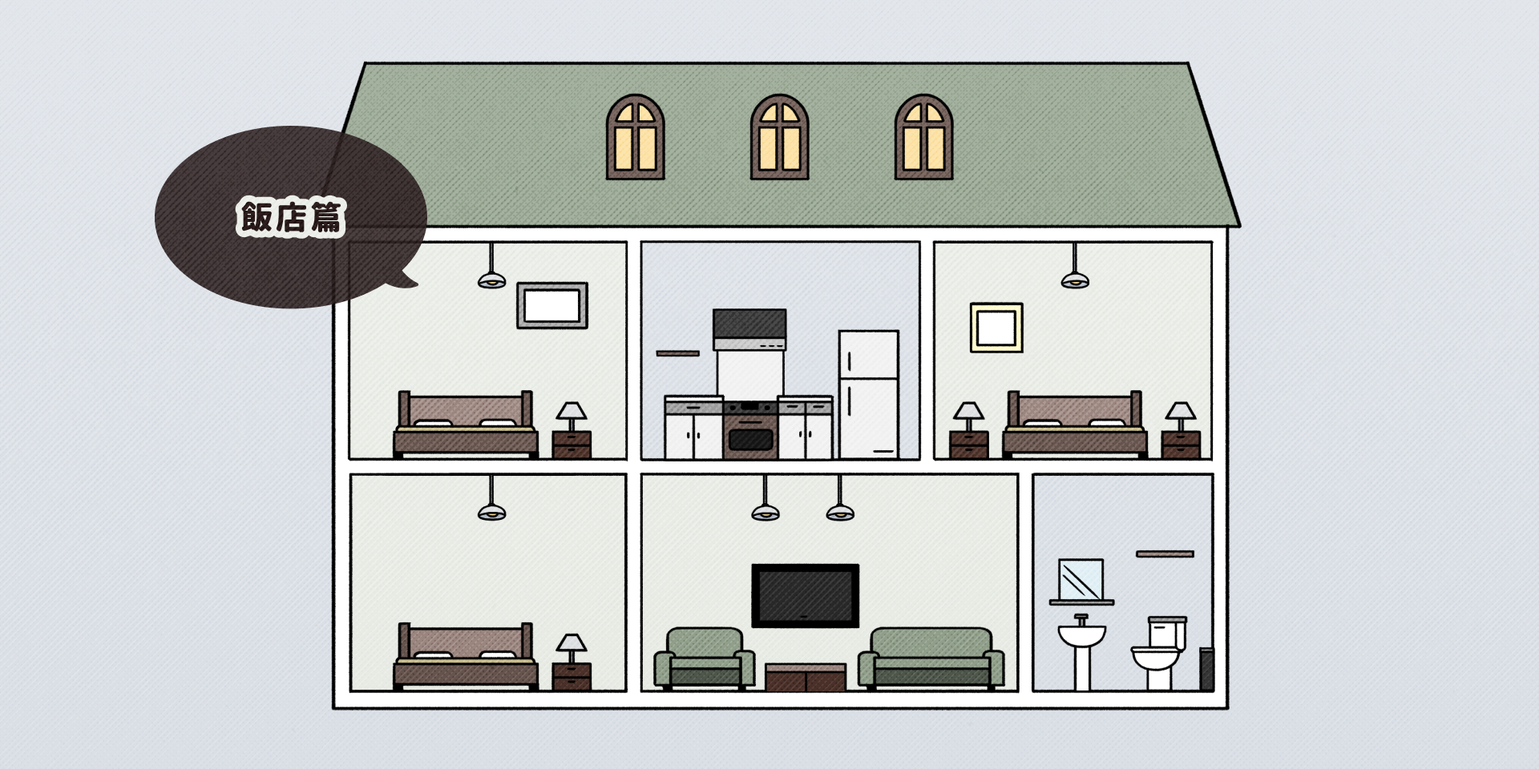
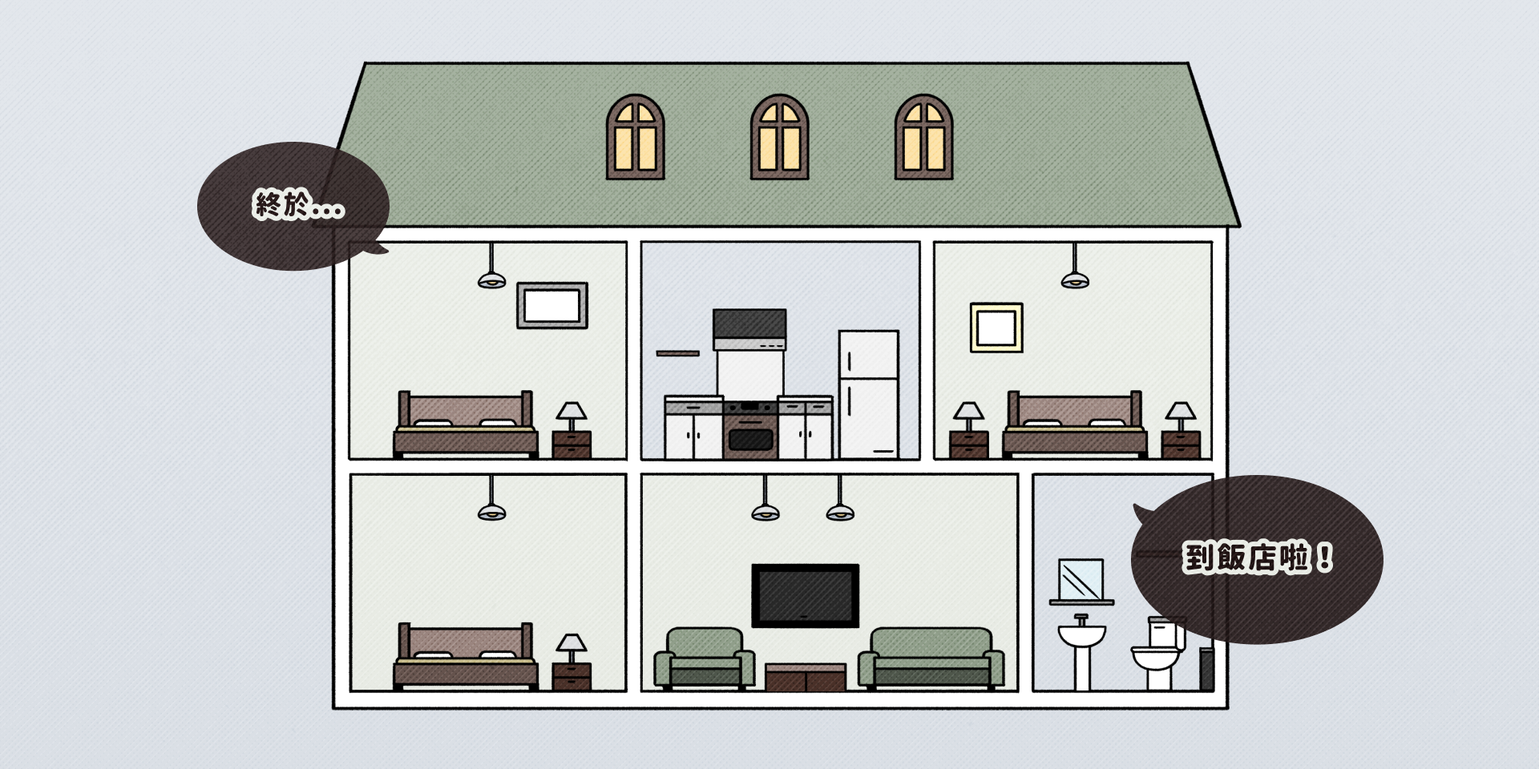
更新

Changed region(s): [[0.7188, 0.5938, 0.9062, 0.8438], [0.0938, 0.1562, 0.2812, 0.4062]]

diff --git a/travel_class.html b/travel_class.html
@@ -3,7 +3,7 @@
 <head>
     <meta charset="UTF-8">
     <meta name="viewport" content="width=device-width, initial-scale=1.0">
-    <title>四天三夜・旅行班：旅行日語補給包</title>
+    <title>四天三夜・旅行班</title>
     <link rel="shortcut icon" href="./img/favicon.ico" type="image/x-icon">
     <link rel="stylesheet" href="./css/all.css">
     <link rel="stylesheet" href="https://fonts.googleapis.com/css2?family=Material+Symbols+Outlined:opsz,wght,FILL,GRAD@48,700,0,0" />
@@ -65,7 +65,7 @@
             </div>
             <div class="carousel-inner">
               <div class="carousel-item active" data-bs-interval="10000">
-                <img src="img/banner_travel_class_001.png" class="img-fluid bg-moore" alt="飯店">
+                <img src="img/banner_travel_001.png" class="img-fluid bg-moore" alt="飯店">
                 <div class="carousel-caption text-start d-none d-lg-block p-4 bg-light rounded border border-3 shadow-sm mb-4">
                   <h2 class="fs-3 typing">每次旅行都是一次全新冒險。</h2>
                   <p class="mb-0 text-muted">這裡是為旅行而設的日語學習資源。<br>本站有四大學習主題：飯店、居酒屋、交通、購物結帳，快速充電你的日語能力。</p>
@@ -168,135 +168,19 @@
             <div class="col-md-8">
               <ul class="nav nav-pills p-3 bg-light rounded-top flex-nowrap overflow-auto" id="travelClassInfoSectionTabs" role="tablist">
                 <li class="nav-item text-nowrap" role="presentation">
-                  <button class="nav-link active" id="travelClassInfoSectionTabs_GroupOne" data-bs-toggle="pill" data-bs-target="#travelClassInfoSectionTabs_001" type="button" role="tab" aria-controls="travelClassInfoSectionTabs_001" aria-selected="true">旅行日語補給包</button>
+                  <button class="nav-link active" id="travelClassInfoSectionTabs_GroupOne" data-bs-toggle="pill" data-bs-target="#travelClassInfoSectionTabs_001" type="button" role="tab" aria-controls="travelClassInfoSectionTabs_001" aria-selected="true">旅行班課程資訊</button>
                 </li>
                 <li class="nav-item text-nowrap" role="presentation">
-                  <button class="nav-link" id="travelClassInfoSectionTabs_GroupTwo" data-bs-toggle="pill" data-bs-target="#travelClassInfoSectionTabs_002" type="button" role="tab" aria-controls="travelClassInfoSectionTabs_002" aria-selected="false">旅行班資訊</button>
+                  <button class="nav-link" id="travelClassInfoSectionTabs_GroupTwo" data-bs-toggle="pill" data-bs-target="#travelClassInfoSectionTabs_002" type="button" role="tab" aria-controls="travelClassInfoSectionTabs_002" aria-selected="false">學生評價</button>
                 </li>
                 <li class="nav-item text-nowrap" role="presentation">
-                  <button class="nav-link" id="travelClassInfoSectionTabs_GroupThree" data-bs-toggle="pill" data-bs-target="#travelClassInfoSectionTabs_003" type="button" role="tab" aria-controls="travelClassInfoSectionTabs_003" aria-selected="false">學生評價</button>
-                </li>
-                <li class="nav-item text-nowrap" role="presentation">
-                  <button class="nav-link" id="travelClassInfoSectionTabs_GroupFour" data-bs-toggle="pill" data-bs-target="#travelClassInfoSectionTabs_004" type="button" role="tab" aria-controls="travelClassInfoSectionTabs_004" aria-selected="false">其他團課</button>
+                  <button class="nav-link" id="travelClassInfoSectionTabs_GroupThree" data-bs-toggle="pill" data-bs-target="#travelClassInfoSectionTabs_003" type="button" role="tab" aria-controls="travelClassInfoSectionTabs_003" aria-selected="false">其他團課</button>
                 </li>
               </ul>
               <!-- tabs 導覽按鈕-->
               <div class="tab-content bg-light pb-3 rounded-bottom" id="travelClassInfoSectionTabs_tabContent">
-                  <!--tab-pane-001 關於補給包-->
-                  <div class="tab-pane fade show active container px-3" id="travelClassInfoSectionTabs_001" role="tabpanel" aria-labelledby="travelClassInfoSectionTabs_GroupOne">
-                    <div class="bg-white rounded p-3">
-                      <h4 class="fs-5">本站使用方式</h4>
-                      <img src="img/ig_post_rule.png" alt="" class="img-fluid d-block rounded bg-goose">
-                      <div class="container my-3 px-0">
-                        <!--刻意消除課程內容、團課資訊 container 的 px-0 -->
-                        <div class="row g-2">
-                          <div class="col-lg-6">
-                            <div class="d-flex mb-0 rounded border border-1 p-2 bg-white h-100">
-                              <div class="me-2">
-                                <span class="material-symbols-outlined d-block bg-secondary p-2 rounded-circle icon-primary">
-                                  counter_1
-                                </span>
-                              </div>
-                              <div class="d-flex flex-column mb-0">
-                                <p class="mb-0 fw-bolder">下載作答紙</p>
-                                <p class="fs-7 text-primary mb-0">檔案為 .doc，可用 Office Word 開啟</p>
-                                <p class="mb-0 text-muted"><a href="#" class="link-offset-2 text-strong">點此來下載</a>，依據練習主題與題目編號填寫答案，同學也可直接列印下來填寫。
-                                </p>
-                              </div>
-                            </div>
-                          </div>
-                          <div class="col-lg-6">
-                            <div class="d-flex mb-0 rounded border border-1 p-2 bg-white h-100">
-                              <div class="me-2">
-                                <span class="material-symbols-outlined d-block bg-secondary icon-primary p-2 rounded-circle">
-                                  counter_2
-                                </span>
-                              </div>
-                              <div class="d-flex flex-column mb-0">
-                                <p class="mb-0 fw-bolder">查看網站上的任務及題目</p>
-                                <p class="fs-7 text-primary mb-0">共四種主題：住宿、飲食、交通、購物</p>
-                                <p class="mb-0 text-muted">題目有句子挖空、短文聽力、文法句型等，練習將答案寫進作答紙中。
-                                </p>
-                              </div>
-                            </div>
-                          </div>
-                          <div class="col-lg-6">
-                            <div class="d-flex mb-0 rounded border border-1 p-2 bg-white h-100">
-                              <div class="me-2">
-                                <span class="material-symbols-outlined d-block bg-secondary icon-primary p-2 rounded-circle">
-                                  counter_3
-                                </span>
-                              </div>
-                              <div class="d-flex flex-column mb-0">
-                                <p class="mb-0 fw-bolder">在 Instagram 貼文領取答案</p>
-                                <p class="fs-7 text-primary mb-0">活動辦法</p>
-                                <p class="mb-0 text-muted">追蹤「yuyu.learn」，喜歡本篇貼文、留言「我要旅行補給包」，即可領取解答。
-                                </p>
-                              </div>
-                            </div>
-                          </div>
-                          <div class="col-lg-6">
-                            <div class="d-flex mb-0 rounded border border-1 p-2 bg-white h-100">
-                              <div class="me-2">
-                                <span class="material-symbols-outlined d-block bg-secondary icon-primary p-2 rounded-circle">
-                                  counter_4
-                                </span>
-                              </div>
-                              <div class="d-flex flex-column mb-0">
-                                <p class="mb-0 fw-bolder">訂正與複習</p>
-                                <p class="fs-7 text-primary mb-0">領取解答後，即可對答案</p>
-                                <p class="mb-0 text-muted">同學可批改自己錯誤、不懂的地方，反覆練習加深學習印象。
-                                </p>
-                              </div>
-                            </div>
-                          </div>
-                        </div><!--row-->
-                      </div><!--container-->
-                      <h4 class="fs-5 mb-3">如何獲得解答</h4>
-                      <p class="my-3 text-muted">自學的過程中，容易因遇到瓶頸而漸漸失去學習的熱情。而在小班課的學習旅程中，你不再孤軍奮戰，可以與同學一起組隊打怪，有句話說：「一個人走得快，一群人走得遠。」<br>在課堂上練習勇敢大聲說，通過與夥伴的教學相長，與更多人一起建立學習語言的自信，你將變得更強！不用擔心落後或者說不出句子，同學只需與自己比較，定期與老師對焦學習目標，不再擔心學習卡關。</p>
-                      <h4 class="fs-5">來加入適合你的隊伍，看看有哪些團課吧！
-                      </h4>
-                      <p class="my-3 text-muted">除了旅行團班以外，老師也有開設其他不同學習主題的團班，同學可以根據自己想要學習的方向，來向老師諮詢報名喔！</p>
-                      <div class="container mt-3 px-0">
-                        <div class="row g-3">
-                          <div class="col-lg-6">
-                            <div class="card p-3 h-100 border border-1">
-                                <div class="position-relative mb-2">
-                                  <p class="position-absolute top-0 px-md-3 py-md-2 bg-dark fs-6 fw-bold text-white px-3 py-1 rounded-topLeft-bottomRight">社交會話</p>
-                                  <img src="img/class-info-cover_001.png" class="classTopicImg img-fluid rounded bg-goose" alt="class-topic-img">
-                                </div>
-                                  <div class="card-body d-flex flex-column p-0">
-                                      <h5 class="card-title">社交 Up！初級口說派對</h5>
-                                    <p class="rounded fs-7 bg-moore text-primary mb-0 py-1 px-3  fw-bolder mb-2">適合瞭解助詞、初階動詞變化者</p>
-                                    <p class="rounded fs-7 bg-moore text-primary mb-0 py-1 px-3  fw-bolder mb-2">2 人開班・4 人即滿班</p>
-                                    <p class="mb-2 text-muted">專為希望提升日常會話能力的學習者設計。在這堂課上，你將透過互動式活動與同學們練習實用的日語表達方式，打破開口的恐懼，建立自信。</p>
-                                    <a href="https://tw.amazingtalker.com/teachers-and-tutors/7255146a-f7a9-4d09-b329-0f5baf664b18" class="btn btn-primary fw-bolder d-block" role="button" target="_blank">報名上課</a>
-                                  </div>
-                            </div>
-                          </div>
-                          <div class="col-lg-6">
-                            <div class="card p-3 h-100 border border-1">
-                                <div class="position-relative mb-2">
-                                  <p class="position-absolute top-0 px-md-3 py-md-2 bg-dark fs-6 fw-bold text-white px-3 py-1 rounded-topLeft-bottomRight">進階旅遊日語</p>
-                                  <img src="img/class-info-cover_001.png" class="classTopicImg img-fluid rounded bg-goose" alt="class-topic-img">
-                                </div>
-                                <div class="card-body d-flex flex-column p-0">
-                                      <h5 class="card-title">導遊專班</h5>
-                                    <p class="rounded fs-7 bg-moore text-primary mb-0 py-1 px-3  fw-bolder mb-2">適合瞭解助詞、初階動詞變化者</p>
-                                    <p class="rounded fs-7 bg-moore text-primary mb-0 py-1 px-3  fw-bolder mb-2">2 人開班・4 人即滿班</p>
-                                    <p class="mb-2 text-muted">專為希望提升日常會話能力的學習者設計。在這堂課上，你將透過互動式活動與同學們練習實用的日語表達方式，打破開口的恐懼，建立自信。</p>
-                                    <a href="https://tw.amazingtalker.com/teachers-and-tutors/7255146a-f7a9-4d09-b329-0f5baf664b18" class="btn btn-primary fw-bolder d-block" role="button" target="_blank">報名上課</a>
-                                </div>
-                            </div>
-                          </div>
-                        </div><!--row-->  
-                      </div><!--課程內容-->
-                    </div><!--內容-->
-                  </div>
-                  <!--tab-pane-001 關於補給包-->
-
-                  <!--tab-pane-002 課程資訊-->
-                  <div class="tab-pane fade container px-3" id="travelClassInfoSectionTabs_002" role="tabpanel" aria-labelledby="travelClassInfoSectionTabs_GroupTwo">
+                  <!--tab-pane-001 課程資訊-->
+                  <div class="tab-pane fade fade show active container px-3" id="travelClassInfoSectionTabs_001" role="tabpanel" aria-labelledby="travelClassInfoSectionTabs_GroupOne">
                     <div class="bg-white rounded p-3">
                       <h4 class="fs-5">四天三夜・旅行班</h4>
                       <p class="my-3 text-muted">在這門課程中，每位同學將在課前收到角色任務卡，上面包含了同學在課程中需要完成的任務，任務涵蓋了課程的核心知識與技能，讓你沈浸式學習，不再是課本句子練習，和夥伴們在這八堂旅途上，一同學習旅遊日語吧！</p>
@@ -390,7 +274,7 @@
                           </div>
                         </div><!--row-->
                       </div><!--container-->
-                      <h4 class="fs-5">課程內容</h4>
+                      <h4 class="fs-5">課程四大學習主題</h4>
                       <div class="container mt-3 px-0">
                         <div class="row g-3">
                           <div class="col-lg-6">
@@ -465,10 +349,10 @@
                       </div><!--課程內容-->
                     </div><!--內容-->
                   </div>
-                  <!--tab-pane-002 課程資訊-->
+                  <!--tab-pane-001 課程資訊-->
 
-                  <!--tab-pane-003 學生評價-->
-                  <div class="tab-pane fade container px-3" id="travelClassInfoSectionTabs_003" role="tabpanel" aria-labelledby="travelClassInfoSectionTabs_GroupThree">
+                  <!--tab-pane-002 學生評價-->
+                  <div class="tab-pane fade container px-3" id="travelClassInfoSectionTabs_002" role="tabpanel" aria-labelledby="travelClassInfoSectionTabs_GroupTwo">
                     <div class="bg-white rounded p-3">
                       <h4 class="fs-5">同學的上課回饋</h4>
                       <div class="container my-3 px-0">
@@ -630,10 +514,10 @@
                       </div><!--課程內容-->
                     </div><!--內容-->
                   </div>
-                  <!--tab-pane-003 學生評價-->
+                  <!--tab-pane-002 學生評價-->
 
-                  <!--tab-pane-004 其他團課-->
-                  <div class="tab-pane fade container px-3" id="travelClassInfoSectionTabs_004" role="tabpanel" aria-labelledby="travelClassInfoSectionTabs_GroupFour">
+                  <!--tab-pane-003 其他團課-->
+                  <div class="tab-pane fade container px-3" id="travelClassInfoSectionTabs_003" role="tabpanel" aria-labelledby="travelClassInfoSectionTabs_GroupThree">
                     <div class="bg-white rounded p-3">
                       <h4 class="fs-5">來加入適合你的隊伍，看看有哪些團課吧！
                       </h4>
@@ -674,7 +558,7 @@
                       </div><!--課程內容-->
                     </div><!--內容-->
                   </div>
-                  <!--tab-pane-004 其他團課-->
+                  <!--tab-pane-003 其他團課-->
 
               </div>
               <!-- tabs content-->

diff --git a/koutsuu.html b/koutsuu.html
@@ -21,9 +21,9 @@
                 </button>
                 <div class="collapse navbar-collapse" id="navbarNav">
                     <ul class="navbar-nav ms-auto justify-content-center align-items-lg-center fw-bolder gap-2">
-                        <li class="nav-item">
-                            <a class="nav-link" aria-current="page" href="./index.html">關於本站</a>
-                        </li>
+                    <li class="nav-item">
+                        <a class="nav-link" aria-current="page" href="./index.html">關於本站</a>
+                    </li>
                     <li class="nav-item">
                         <a class="nav-link" aria-current="page" href="./hoteru.html">飯店住宿</a>
                     </li>
@@ -36,10 +36,14 @@
                     <li class="nav-item">
                         <a class="nav-link" href="./kaimono.html">購物結帳</a>
                     </li>
+                    <li><a href="./index.html" class="btn btn-outline-primary fs-7">下載作答紙</a>
+                    </li>
+                    <li><a href="./travel_class.html" class="btn btn-primary fs-7">關於旅行班</a>
+                    </li>
                     <ul class="list-unstyled d-flex align-items-lg-center">
-                        <li class="nav-item">
-                        <a href="https://www.instagram.com/yuyu.learn/" class="d-block p-1" target="_blank"><img src="img/icon-filled-bk-paper.svg" alt="instagram" class="img-fluid d-block"></a>
-                        </li>
+                        <!-- <li class="nav-item">
+                        <a href="#" class="d-block p-1" target="_blank"><img src="img/icon-filled-bk-paper.svg" alt="instagram" class="img-fluid d-block"></a>
+                        </li> -->
                         <li class="nav-item">
                         <a href="https://www.instagram.com/yuyu.learn/" class="d-block p-1" target="_blank"><img src="img/icon-bk-instagram.svg" alt="instagram" class="img-fluid d-block"></a>
                         </li>
@@ -62,14 +66,14 @@
               <div class="carousel-item active" data-bs-interval="10000">
                 <img src="img/banner_koutsuu_001.png" class="img-fluid" alt="飯店">
                 <div class="carousel-caption text-start d-none d-lg-block p-4 mb-4">
-                  <h2 class="fs-3 typing text-dark bg-white rounded px-3 py-2">出門在外難免迷點路 🐾 🥸</h2>
+                  <h2 class="fs-3 typing text-dark bg-white rounded px-3 py-2">迷路時最怕空氣突然很安靜</h2>
                 </div>
               </div>
               <div class="carousel-item" data-bs-interval="2000">
                 <img src="img/banner_koutsuu_002.png" class="img-fluid" alt="banner">
-                <div class="carousel-caption text-start d-none d-lg-block p-4 mb-4">
-                  <h2 class="fs-3 typing text-light bg-dark rounded px-3 py-2">tag 你那位總是迷路的朋友</h2>
-                </div>
+                <!-- <div class="carousel-caption text-start d-none d-lg-block p-4 mb-4">
+                  <h2 class="fs-3 typing text-light bg-dark rounded px-3 py-2">text</h2>
+                </div> -->
               </div>
               <!-- <div class="carousel-item">
                 <img src="img/banner_003.png" class="img-fluid" alt="...">

diff --git a/kaimono.html b/kaimono.html
@@ -21,9 +21,9 @@
                 </button>
                 <div class="collapse navbar-collapse" id="navbarNav">
                     <ul class="navbar-nav ms-auto justify-content-center align-items-lg-center fw-bolder gap-2">
-                        <li class="nav-item">
-                            <a class="nav-link" aria-current="page" href="./index.html">關於本站</a>
-                        </li>
+                    <li class="nav-item">
+                        <a class="nav-link" aria-current="page" href="./index.html">關於本站</a>
+                    </li>
                     <li class="nav-item">
                         <a class="nav-link" aria-current="page" href="./hoteru.html">飯店住宿</a>
                     </li>
@@ -36,10 +36,14 @@
                     <li class="nav-item">
                         <a class="nav-link" href="./kaimono.html">購物結帳</a>
                     </li>
+                    <li><a href="./index.html" class="btn btn-outline-primary fs-7">下載作答紙</a>
+                    </li>
+                    <li><a href="./travel_class.html" class="btn btn-primary fs-7">關於旅行班</a>
+                    </li>
                     <ul class="list-unstyled d-flex align-items-lg-center">
-                        <li class="nav-item">
-                        <a href="https://www.instagram.com/yuyu.learn/" class="d-block p-1" target="_blank"><img src="img/icon-filled-bk-paper.svg" alt="instagram" class="img-fluid d-block"></a>
-                        </li>
+                        <!-- <li class="nav-item">
+                        <a href="#" class="d-block p-1" target="_blank"><img src="img/icon-filled-bk-paper.svg" alt="instagram" class="img-fluid d-block"></a>
+                        </li> -->
                         <li class="nav-item">
                         <a href="https://www.instagram.com/yuyu.learn/" class="d-block p-1" target="_blank"><img src="img/icon-bk-instagram.svg" alt="instagram" class="img-fluid d-block"></a>
                         </li>
@@ -62,13 +66,13 @@
               <div class="carousel-item active" data-bs-interval="10000">
                 <img src="img/banner_kaimono_001.png" class="img-fluid" alt="飯店">
                 <div class="carousel-caption text-start d-none d-lg-block p-4 mb-4">
-                  <h2 class="fs-3 typing bg-dark text-white rounded px-3 py-2">我在買爆東西的路上 💸 💸</h2>
+                  <h2 class="fs-3 typing bg-dark text-white rounded px-3 py-2">信用卡：「你休想再刷！」</h2>
                 </div>
               </div>
               <div class="carousel-item" data-bs-interval="2000">
                 <img src="img/banner_kaimono_002.png" class="img-fluid" alt="banner">
                 <div class="carousel-caption text-start d-none d-lg-block p-4 mb-4">
-                  <h2 class="fs-3 typing text-light bg-dark rounded px-3 py-2">只好拿出我的信用卡了 🧐</h2>
+                  <h2 class="fs-3 typing text-light bg-dark rounded px-3 py-2">我在買爆東西的路上 💸 💸</h2>
                 </div>
               </div>
               <!-- <div class="carousel-item">

diff --git a/hoteru.html b/hoteru.html
@@ -21,9 +21,9 @@
                 </button>
                 <div class="collapse navbar-collapse" id="navbarNav">
                     <ul class="navbar-nav ms-auto justify-content-center align-items-lg-center fw-bolder gap-2">
-                        <li class="nav-item">
-                            <a class="nav-link" aria-current="page" href="./index.html">關於本站</a>
-                        </li>
+                    <li class="nav-item">
+                        <a class="nav-link" aria-current="page" href="./index.html">關於本站</a>
+                    </li>
                     <li class="nav-item">
                         <a class="nav-link" aria-current="page" href="./hoteru.html">飯店住宿</a>
                     </li>
@@ -36,10 +36,14 @@
                     <li class="nav-item">
                         <a class="nav-link" href="./kaimono.html">購物結帳</a>
                     </li>
+                    <li><a href="./index.html" class="btn btn-outline-primary fs-7">下載作答紙</a>
+                    </li>
+                    <li><a href="./travel_class.html" class="btn btn-primary fs-7">關於旅行班</a>
+                    </li>
                     <ul class="list-unstyled d-flex align-items-lg-center">
-                        <li class="nav-item">
-                        <a href="https://www.instagram.com/yuyu.learn/" class="d-block p-1" target="_blank"><img src="img/icon-filled-bk-paper.svg" alt="instagram" class="img-fluid d-block"></a>
-                        </li>
+                        <!-- <li class="nav-item">
+                        <a href="#" class="d-block p-1" target="_blank"><img src="img/icon-filled-bk-paper.svg" alt="instagram" class="img-fluid d-block"></a>
+                        </li> -->
                         <li class="nav-item">
                         <a href="https://www.instagram.com/yuyu.learn/" class="d-block p-1" target="_blank"><img src="img/icon-bk-instagram.svg" alt="instagram" class="img-fluid d-block"></a>
                         </li>
@@ -73,9 +77,9 @@
               </div>
               <div class="carousel-item" data-bs-interval="2000">
                 <img src="img/banner_hotel_002.png" class="img-fluid" alt="banner">
-                <div class="carousel-caption text-start d-none d-lg-block p-4 mb-4">
-                  <h2 class="fs-3 typing text-light bg-dark rounded px-3 py-2">飯店裡似乎有些機關 🧐 ⋯</h2>
-                </div>
+                <!-- <div class="carousel-caption text-start d-none d-lg-block p-4 mb-4">
+                  <h2 class="fs-3 typing text-light bg-dark rounded px-3 py-2">終於抵達飯店啦～</h2>
+                </div> -->
               </div>
               <!-- <div class="carousel-item">
                 <img src="" class="img-fluid" alt="...">

diff --git a/izakaya.html b/izakaya.html
@@ -21,9 +21,9 @@
                 </button>
                 <div class="collapse navbar-collapse" id="navbarNav">
                     <ul class="navbar-nav ms-auto justify-content-center align-items-lg-center fw-bolder gap-2">
-                        <li class="nav-item">
-                            <a class="nav-link" aria-current="page" href="./index.html">關於本站</a>
-                        </li>
+                    <li class="nav-item">
+                        <a class="nav-link" aria-current="page" href="./index.html">關於本站</a>
+                    </li>
                     <li class="nav-item">
                         <a class="nav-link" aria-current="page" href="./hoteru.html">飯店住宿</a>
                     </li>
@@ -36,10 +36,14 @@
                     <li class="nav-item">
                         <a class="nav-link" href="./kaimono.html">購物結帳</a>
                     </li>
+                    <li><a href="./index.html" class="btn btn-outline-primary fs-7">下載作答紙</a>
+                    </li>
+                    <li><a href="./travel_class.html" class="btn btn-primary fs-7">關於旅行班</a>
+                    </li>
                     <ul class="list-unstyled d-flex align-items-lg-center">
-                        <li class="nav-item">
-                        <a href="https://www.instagram.com/yuyu.learn/" class="d-block p-1" target="_blank"><img src="img/icon-filled-bk-paper.svg" alt="instagram" class="img-fluid d-block"></a>
-                        </li>
+                        <!-- <li class="nav-item">
+                        <a href="#" class="d-block p-1" target="_blank"><img src="img/icon-filled-bk-paper.svg" alt="instagram" class="img-fluid d-block"></a>
+                        </li> -->
                         <li class="nav-item">
                         <a href="https://www.instagram.com/yuyu.learn/" class="d-block p-1" target="_blank"><img src="img/icon-bk-instagram.svg" alt="instagram" class="img-fluid d-block"></a>
                         </li>
@@ -62,7 +66,7 @@
               <div class="carousel-item active" data-bs-interval="10000">
                 <img src="img/banner_izakaya_001.png" class="img-fluid" alt="飯店">
                 <div class="carousel-caption text-start d-none d-lg-block p-4 mb-4">
-                  <h2 class="fs-3 typing text-dark bg-white rounded px-3 py-2">居酒屋必點是雞肉丸子 🤤</h2>
+                  <h2 class="fs-3 typing text-dark bg-white rounded px-3 py-2">本店必點是雞肉丸子 🍺🤤</h2>
                 </div>
               </div>
               <div class="carousel-item" data-bs-interval="2000">
